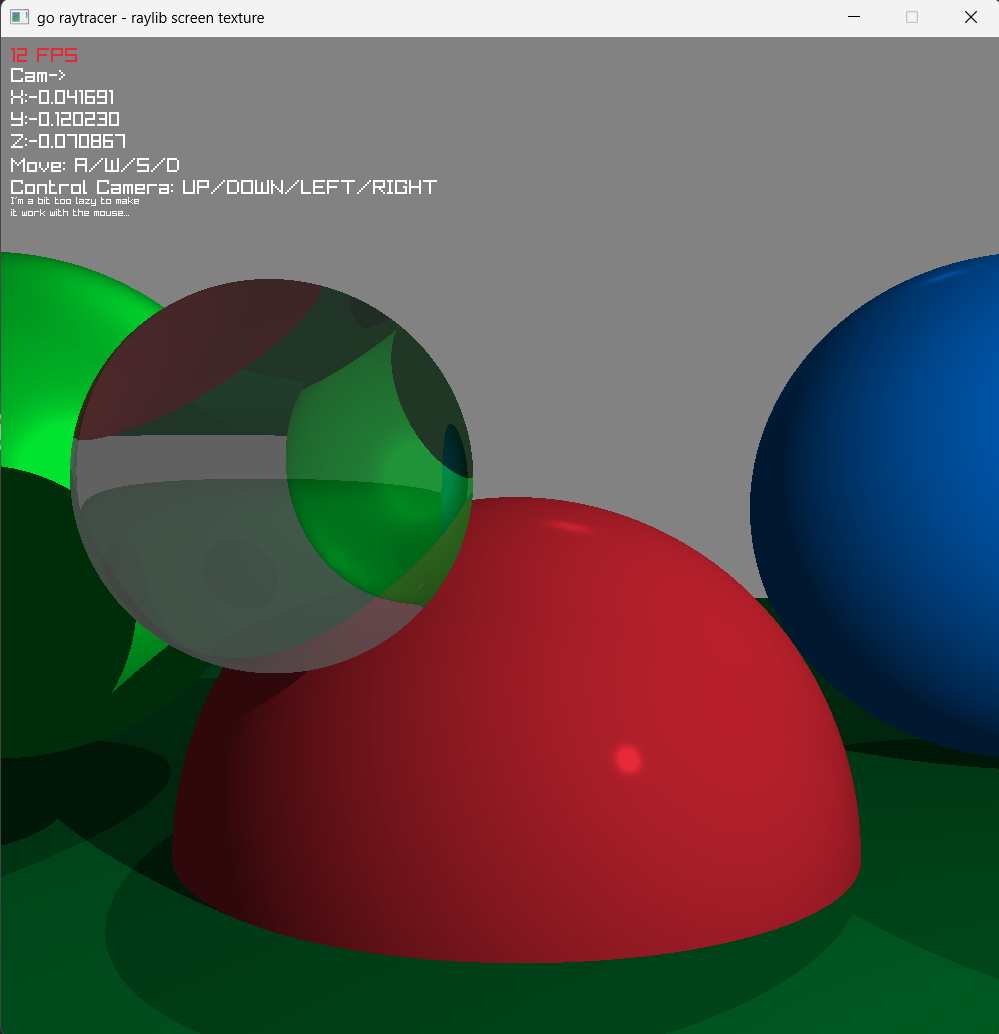
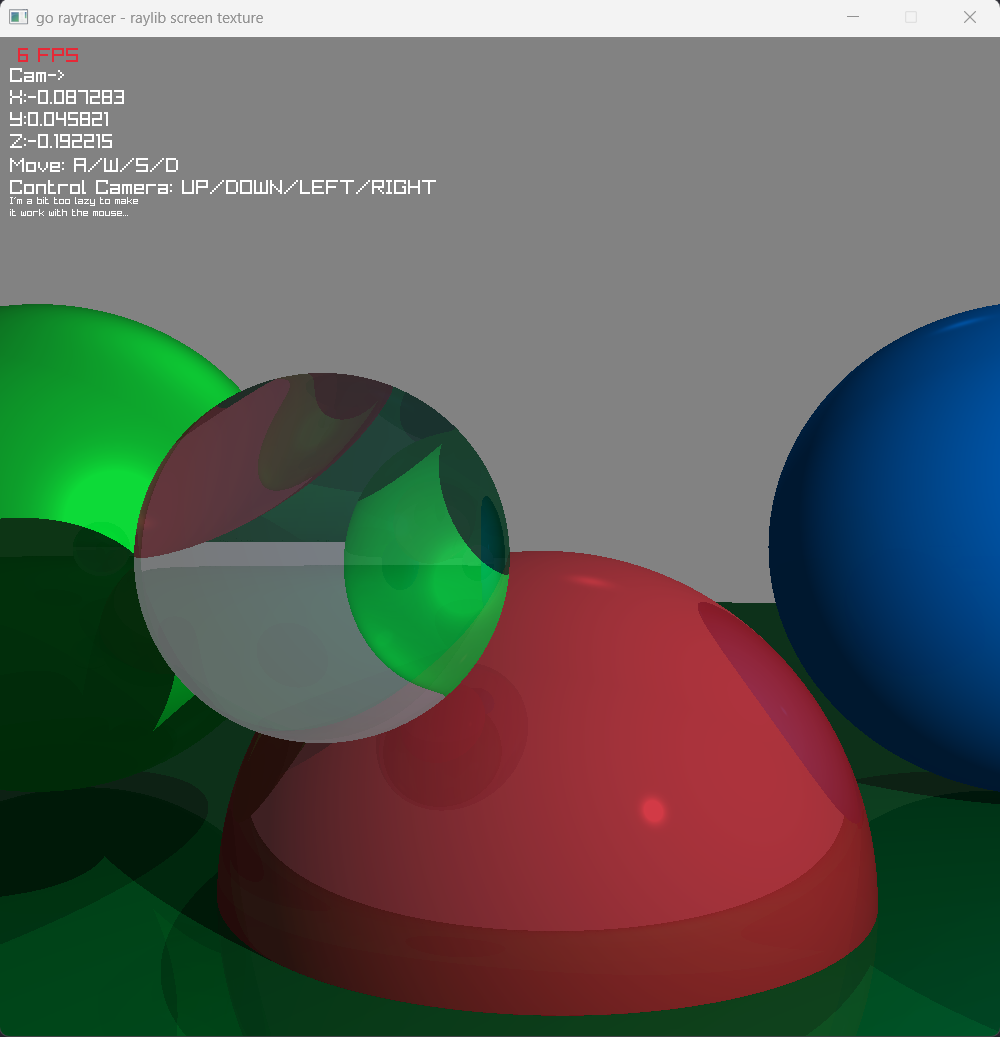
fix - Reflection on non opaque spheres not working, changed order of opacity check

diff --git a/raytracer/raytrace.go b/raytracer/raytrace.go
@@ -7,7 +7,7 @@ import (
 )
 
 const MAX_INF int32 = 1_000_000_000
-const MAX_RECURSION int8 = 2
+const MAX_RECURSION int8 = 3
 
 func TraceRay(origin, ray rl.Vector3, t_min, t_max float32, spheres []Sphere, lights []Ligths, recursion int8) rl.Color {
 	closest_sphere, closest_t := ClosesIntersection(origin, ray, t_min, t_max, spheres)
@@ -46,7 +46,19 @@ func TraceRay(origin, ray rl.Vector3, t_min, t_max float32, spheres []Sphere, li
 
 	local_color := closest_sphere.Color
 
-	if recursion <= 0 || closest_sphere.Reflective <= 0 || closest_sphere.Opacity <= 0 {
+	if closest_sphere.Opacity > 0 {
+		o := closest_sphere.Opacity
+
+		angleRay := RayAngleFromNormal(ray, normal)
+		refracted := Refraction(ray, normal, angleRay, closest_sphere.RefractionIndex)
+		transparentColor := TraceRay(point, refracted, t_min, t_max, spheres, lights, recursion-1)
+
+		local_color.R = uint8(float32(local_color.R)*(1-o) + float32(transparentColor.R)*o)
+		local_color.G = uint8(float32(local_color.G)*(1-o) + float32(transparentColor.G)*o)
+		local_color.B = uint8(float32(local_color.B)*(1-o) + float32(transparentColor.B)*o)
+	}
+
+	if recursion <= 0 || closest_sphere.Reflective <= 0 {
 		return local_color
 	}
 
@@ -59,18 +71,6 @@ func TraceRay(origin, ray rl.Vector3, t_min, t_max float32, spheres []Sphere, li
 	reflected_color.R = uint8(float32(local_color.R)*(1-r) + float32(reflected_color.R)*r)
 	reflected_color.G = uint8(float32(local_color.G)*(1-r) + float32(reflected_color.G)*r)
 	reflected_color.B = uint8(float32(local_color.B)*(1-r) + float32(reflected_color.B)*r)
-
-	if closest_sphere.Opacity > 0 {
-		o := closest_sphere.Opacity
-
-		angleRay := RayAngleFromNormal(ray, normal)
-		refracted := Refraction(ray, normal, angleRay, closest_sphere.RefractionIndex)
-		transparentColor := TraceRay(point, refracted, t_min, t_max, spheres, lights, recursion-1)
-
-		reflected_color.R = uint8(float32(reflected_color.R)*(1-o) + float32(transparentColor.R)*o)
-		reflected_color.G = uint8(float32(reflected_color.G)*(1-o) + float32(transparentColor.G)*o)
-		reflected_color.B = uint8(float32(reflected_color.B)*(1-o) + float32(transparentColor.B)*o)
-	}
 
 	return reflected_color
 }

diff --git a/main.go b/main.go
@@ -85,11 +85,11 @@ func main() {
 		{
 			Center:          rl.Vector3{X: -.5, Y: 0, Z: 2},
 			Radius:          .4,
-			Color:           rl.Blank,
-			Specular:        100,
-			Reflective:      0.5,
-			Opacity:         .5,
-			RefractionIndex: 1.333,
+			Color:           rl.Blue,
+			Specular:        200,
+			Reflective:      0.2,
+			Opacity:         0.9,
+			RefractionIndex: 1.33,
 		},
 		{
 			Center:     rl.Vector3{X: 0, Y: -501, Z: 0},
